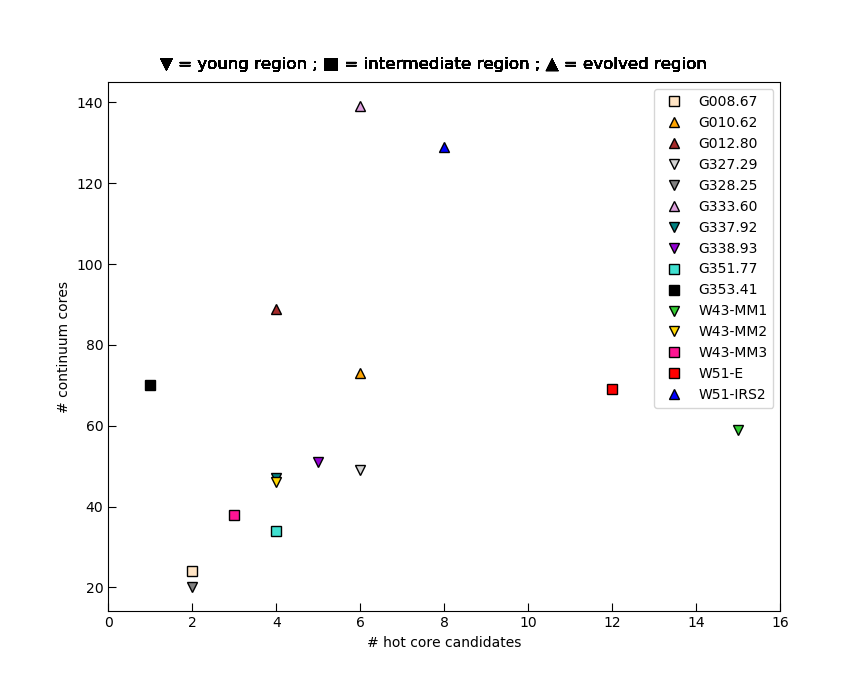
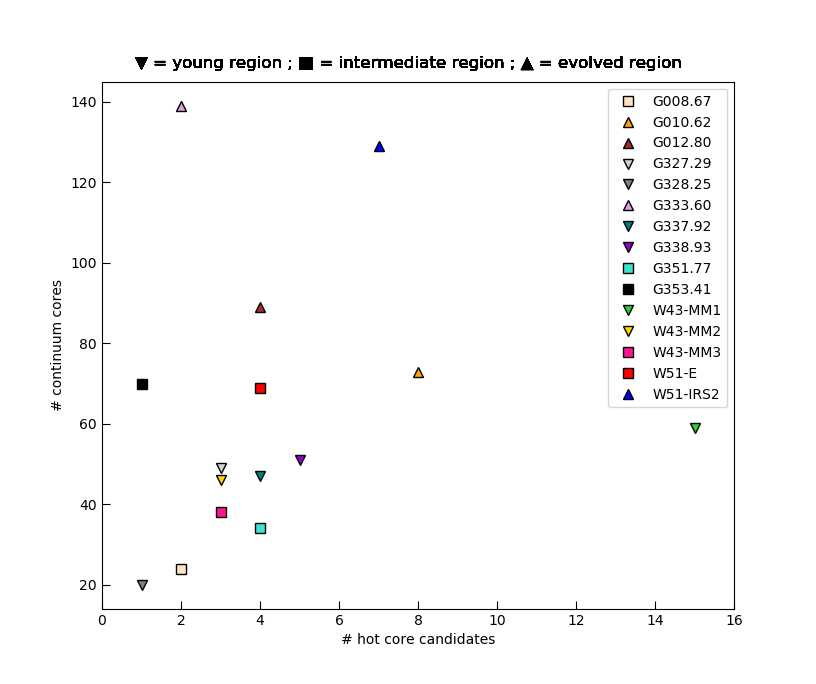
updates

diff --git a/colloquium_Mar2022_UMD.html b/colloquium_Mar2022_UMD.html
@@ -484,82 +484,58 @@ formation, including kinematic measurements using brinary disks.
         </aside>
     </section>
 </section>
-    <section>
-        <h4 style="white-space:nowrap;"> In denser <span class=smaller>(parts of)</span> galaxies, more stars form in clusters </h4>
-        <span class=image style='height:90%; background-image: url(colloquium_assets/GammaVsSigmaGas_extragalonly.svg);'></span>
-        <div style="position: absolute; bottom: 19%; right:9%; text-align:right;" class="smaller2">
-            <a href="http://adsabs.harvard.edu/abs/2012MNRAS.426.3008K">Kruijssen 2012</a>
-            <br>
-            <a href="http://adsabs.harvard.edu/abs/2018ApJ...864L..17G">Ginsburg &amp; Kruijssen 2018</a>
-        </div>
-        <div class=smaller2 style="position: absolute; top: 15%; text-align:left; left:21%; width: 30%;">
-            <span style="font-family: Times;">&Gamma;</span> is the fraction of stars forming in bound clusters
-        </div>
-        <div class=smaller2 style="position: absolute; top: 71%; text-align:center; left:29%; width:20%; color: rgb(66, 140, 191);">
-            Galaxy averages
-        </div>
 
-        <aside class=notes>
-            <ul>
-                <li> Y-axis is fraction of stars forming in <b>bound</b> clusters, the "cluster formation efficiency" (CFE)
-                <li> Milky Way point is the one w/large errors
-            </ul>
-        </aside>
-    </section>
+<section>
+    <h4 style="white-space:nowrap;"> In denser <span class=smaller>(parts of)</span> galaxies, more stars form in clusters </h4>
+    <span class=image style='height:90%; background-image: url(colloquium_assets/GammaVsSigmaGas_extragalonly.svg);'></span>
+    <div style="position: absolute; bottom: 19%; right:9%; text-align:right;" class="smaller2">
+        <a href="http://adsabs.harvard.edu/abs/2012MNRAS.426.3008K">Kruijssen 2012</a>
+        <br>
+        <a href="http://adsabs.harvard.edu/abs/2018ApJ...864L..17G">Ginsburg &amp; Kruijssen 2018</a>
+    </div>
+    <div class=smaller2 style="position: absolute; top: 15%; text-align:left; left:21%; width: 30%;">
+        <span style="font-family: Times;">&Gamma;</span> is the fraction of stars forming in bound clusters
+    </div>
+    <div class=smaller2 style="position: absolute; top: 71%; text-align:center; left:29%; width:20%; color: rgb(66, 140, 191);">
+        Galaxy averages
+    </div>
 
-    <section>
-        <h4 style="white-space:nowrap;"> The "Bound Cluster Fraction" is predicted higher in the CMZ </h4>
-        <span class=image style='height:90%; background-image: url(colloquium_assets/GammaVsSigmaGas_withTheory_withoutSB2.svg);'></span>
-        <div style="position: absolute; bottom: 19%; right:9%; text-align:right;" class="smaller2">
-            <a href="http://adsabs.harvard.edu/abs/2012MNRAS.426.3008K">Kruijssen 2012</a>
-            <br>
-            <a href="http://adsabs.harvard.edu/abs/2018ApJ...864L..17G">Ginsburg &amp; Kruijssen 2018</a>
-        </div>
-        <div class=smaller2 style="position: absolute; top: 15%; text-align:left; left:21%; width: 30%;">
-            <span style="font-family: Times;">&Gamma;</span> is the fraction of stars forming in bound clusters
-        </div>
-        <div class=smaller2 style="position: absolute; top: 71%; text-align:center; left:29%; width:20%; color: rgb(66, 140, 191);">
-            Galaxy averages
-        </div>
-        <div class=smaller2 style="position: absolute; top: 43%; text-align:center; left:67.7%; width:20%; color: red;">
-            CMZ prediction
-        </div>
+    <aside class=notes>
+        <ul>
+            <li> Y-axis is fraction of stars forming in <b>bound</b> clusters, the "cluster formation efficiency" (CFE)
+            <li> Milky Way point is the one w/large errors
+        </ul>
+    </aside>
+</section>
 
-        <aside class=notes>
-            <ul>
-                <li> X-axis is gas surface density, can be approximately treated as same as other plot
-                <li> Local model is blue dotted (depends on local mean density),
-                global model is red (depends on Galaxy scale height)
+<section>
+    <h4 style="white-space:nowrap;"> The "Bound Cluster Fraction" is predicted higher in the CMZ </h4>
+    <span class=image style='height:90%; background-image: url(colloquium_assets/GammaVsSigmaGas_withTheory_withoutSB2.svg);'></span>
+    <div style="position: absolute; bottom: 19%; right:9%; text-align:right;" class="smaller2">
+        <a href="http://adsabs.harvard.edu/abs/2012MNRAS.426.3008K">Kruijssen 2012</a>
+        <br>
+        <a href="http://adsabs.harvard.edu/abs/2018ApJ...864L..17G">Ginsburg &amp; Kruijssen 2018</a>
+    </div>
+    <div class=smaller2 style="position: absolute; top: 15%; text-align:left; left:21%; width: 30%;">
+        <span style="font-family: Times;">&Gamma;</span> is the fraction of stars forming in bound clusters
+    </div>
+    <div class=smaller2 style="position: absolute; top: 71%; text-align:center; left:29%; width:20%; color: rgb(66, 140, 191);">
+        Galaxy averages
+    </div>
+    <div class=smaller2 style="position: absolute; top: 43%; text-align:center; left:67.7%; width:20%; color: red;">
+        CMZ prediction
+    </div>
 
-            </ul>
-        </aside>
-    </section>
+    <aside class=notes>
+        <ul>
+            <li> X-axis is gas surface density, can be approximately treated as same as other plot
+            <li> Local model is blue dotted (depends on local mean density),
+            global model is red (depends on Galaxy scale height)
 
-    <section>
-        <h4 style="white-space:nowrap;"> The "Bound Cluster Fraction" is higher in the CMZ </h4>
-        <span class=image style='height:90%; background-image: url(colloquium_assets/GammaVsSigmaGas_withTheory.svg);'></span>
-        <div style="position: absolute; bottom: 19%; right:9%; text-align:right;" class="smaller2">
-            <a href="http://adsabs.harvard.edu/abs/2012MNRAS.426.3008K">Kruijssen 2012</a>
-            <br>
-            <a href="http://adsabs.harvard.edu/abs/2018ApJ...864L..17G">Ginsburg &amp; Kruijssen 2018</a>
-        </div>
-        <div class=smaller2 style="position: absolute; top: 15%; text-align:left; left:21%; width: 30%;">
-            <span style="font-family: Times;">&Gamma;</span> is the fraction of stars forming in bound clusters
-        </div>
-        <div class=smaller2 style="position: absolute; top: 71%; text-align:center; left:29%; width:20%; color: rgb(66, 140, 191);">
-            Galaxy averages
-        </div>
-        <div class=smaller2 style="position: absolute; top: 43%; text-align:center; left:67.7%; width:20%; color: red;">
-            CMZ prediction
-            <br><span style="color: orange; text-align: center;">Sgr B2 data</span>
-        </div>
+        </ul>
+    </aside>
+</section>
 
-        <aside class=notes>
-            <ul>
-                <li> CFE is clearly higher in denser regions in <i>our</i> Galaxy
-            </ul>
-        </aside>
-    </section>
 
 <section>
     <section>
@@ -816,11 +792,30 @@ formation, including kinematic measurements using brinary disks.
     </span>
 </section>
 
-<section>
-    <h4> Many alternatives, no consensus on which is best </h4>
-    <span class=image style='height:85%; background-position: center center; background-image: url(colloquium_assets/Offner2014_Fig4_regrid.svg);'>
-        <div style="position: absolute; bottom: 60px; left:130px" class="smaller2"><a href="http://adsabs.harvard.edu/abs/2014prpl.conf...53O">Offner+ 2014</a></div>
-    </span>
+<section id=offner>
+    <section>
+        <h4> Many alternatives, no consensus on which is best </h4>
+        <span class=image style='height:85%; background-position: center center; background-image: url(colloquium_assets/Offner2014_Fig4_regrid.svg);'>
+            <div style="position: absolute; bottom: 60px; left:130px" class="smaller2"><a href="http://adsabs.harvard.edu/abs/2014prpl.conf...53O">Offner+ 2014</a></div>
+        </span>
+    </section>
+    <section id=coreisnotacore>
+        However, a core is not a core.
+
+        <br>
+
+
+        <div style='vertical-align:middle'>
+        <img style='width:30%; display:inline-block' src="https://upload.wikimedia.org/wikipedia/commons/thumb/1/10/Barnard_68.jpg/1920px-Barnard_68.jpg"> 
+        <span style='position:relative; top: -30%'> &ne; </span>
+        <img style='width:40%; display:inline-block' src="colloquium_assets/methanol_scalebar_e2e.png">
+        </div>
+    </section>
+
+    <section>
+        Cores change states
+        <img src="assets/Offner2022_fig8_corestatechanges.png">
+    </section>
 </section>
 
 <section>
@@ -1032,7 +1027,7 @@ formation, including kinematic measurements using brinary disks.
             <h4>Hot core overview:<br> A lot is coming</h4>
         <ul>
             <li> 11 HCs in W43-MM1 <span class=smaller>(Brouillet+ in prep)</span></li>
-            <li> ~70-80 HCs in ALMA-IMF sample from CH<sub>3</sub>OCHO <span class=smaller style='color:darkred'>(Bonfand+ in prep; left)</span> </li>
+            <li> ~60-70 HCs in ALMA-IMF sample from CH<sub>3</sub>OCHO <span class=smaller style='color:darkred'>(Bonfand+ in prep; left)</span> </li>
             <li> CH<sub>3</sub>CN temperature maps <span class=smaller>(Wyrowski+ in prep)</span></li>
         </ul>
         </div>
@@ -1065,23 +1060,6 @@ formation, including kinematic measurements using brinary disks.
 
 
 <!--
-<section>
-    However, a core is not a core.
-
-    <br>
-
-
-    <div style='vertical-align:middle'>
-    <img style='width:30%; display:inline-block' src="https://upload.wikimedia.org/wikipedia/commons/thumb/1/10/Barnard_68.jpg/1920px-Barnard_68.jpg"> 
-    <span style='position:relative; top: -30%'> &ne; </span>
-    <img style='width:40%; display:inline-block' src="colloquium_assets/methanol_scalebar_e2e.png">
-    </div>
-</section>
-
-<section>
-    Cores change states
-    <img src="assets/Offner2022_fig8_corestatechanges.png">
-</section>
 
 <section>
     CMF results from Yohan, Fab here
